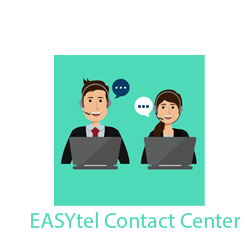
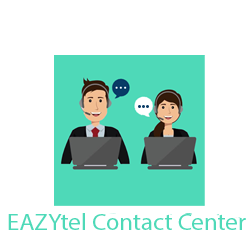
4th modification on Eazytel

Changed region(s): [[0.028, 0.84, 0.98, 0.924]]

diff --git a/index.html b/index.html
@@ -24,10 +24,36 @@
     <!--  <link href="css/style.min.css" rel="stylesheet" type="text/css" />-->
     <link href="css/style.css" rel="stylesheet" type="text/css" />
 
+    <link href="https://fonts.googleapis.com/css?family=Chewy|Modak|Schoolbell&display=swap" rel="stylesheet">
+
+
     <style>
         .text-muted {
             color: #083b66 !important;
+            font-size: 14px !important;
         }
+        .title {
+
+       font-weight: 900 !important;
+       font-family: 'Modak', cursive;
+            font-family: 'Chewy', cursive;
+            text-shadow: -1px -1px 0 #4ed9b8, 1px -1px 0 #4ed9b8, -1px 1px 0 #4ed9b8, 1px 1px 0 #4ed9b8;
+    
+        }
+
+        .styletext
+        {
+            font-family: 'Modak', cursive;
+            font-family: 'Chewy', cursive;
+            text-shadow: -4px -2px 0 #4ed9b8, 1px -1px 0 #4ed9b8, -1px 1px 0 #4ed9b8, 1px 1px 0 #4ed9b8;
+        }
+
+        .h4, h4
+        {
+            font-size: 3.5rem !important;
+        }
+
+
     </style>
 </head>
 
@@ -92,11 +118,11 @@
                         <div class="mb-4">
                             <i class="mdi mdi-google-circles-extended mdi-spin text-light h1"></i>
                         </div>
-                        <h1 class="hero-7-title" style="font-size: 37px;font-weight: 900">
+                        <h1 class="hero-7-title" style="font-size: 45px;font-weight: 900">
                             <span class="text-wrapper" style="text-align: center">
-                                <span class="letters text-light font-weight-normal">Considering Taking Your Customer Engagement to The Next </span>
+                                <span class="letters text-light font-weight-normal styletext">Considering Taking Your Customer Engagement to The Next </span>
 
-                            <span><p  style="text-align: center; color: #083b66">LEVEL?</p></span>
+                            <span><p class="styletext" style="text-align: center; color: #083b66 ">LEVEL?</p></span>
                             </span>
                         </h1>
                         <!-- <p class="text-light-70 mb-4 pb-2">Considering Taking Your Customer to The Next LEVEL?</p>-->
@@ -128,7 +154,7 @@
             <div class="row justify-content-center">
                 <div class="col-lg-6 col-md-8">
                     <div class="text-center mb-5">
-                        <h4 class="text-uppercase mb-0">Awesome Products</h4>
+                        <h4 class="text-uppercase mb-0 styletext" style="color: #083b66;">Awesome Products</h4>
                         <div class="my-3">
                             <img src="images/title-border.png" alt="" class="img-fluid mx-auto d-block">
                         </div>
@@ -149,7 +175,7 @@
                                 <div class="service-box service-box-1 p-4">
                                     <div class="service-icon icon-primary mb-4 mt-3">
                                         <i class="mdi mdi-mixcloud"></i>
-                                        <img src="images/service1.png" alt="CloudPBX" />
+                                        <img src="images/service1.png" style="height: 200px;" alt="CloudPBX" />
                                     </div>
 
                                     <!-- <h4 class="mb-3 service-title">Creative Design</h4>
@@ -160,7 +186,7 @@
                                 <div class="service-box service-box-1 p-4">
                                     <div class="service-icon icon-danger mb-4 mt-3">
                                         <i class="mdi mdi-message-video"></i>
-                                        <img src="images/service-2.png" alt="Video Conferencing" />
+                                        <img src="images/service-2.png" style="height: 200px;" alt="Video Conferencing" />
                                     </div>
                                     <!--<h4 class="mb-3 service-title">Analytics Security</h4>
                                 <p class="text-muted f-15">Itaque earum rerum hic at tenetur that sapiente delectus ut aut reiciendis voluptatibus alias.</p>-->
@@ -172,7 +198,7 @@
                                 <div class="service-box service-box-1 p-4 mt-md-5">
                                     <div class="service-icon icon-success mb-4 mt-3">
                                         <i class="mdi mdi-face-agent"></i>
-                                        <img src="images/service-3.png" alt="Cstomer service" />
+                                        <img src="images/service-3.png" style="height: 200px;" alt="Cstomer service" />
                                     </div>
                                     <!--<h4 class="mb-3 service-title">Data Privacy</h4>
                                 <p class="text-muted f-15">Itaque earum rerum hic at tenetur that sapiente delectus ut aut reiciendis voluptatibus alias.</p>-->
@@ -182,7 +208,7 @@
                                 <div class="service-box service-box-1 p-4">
                                     <div class="service-icon icon-info mb-4 mt-3">
                                         <i class="mdi mdi-phone-in-talk"></i>
-                                        <img src="images/service-4.png " alt="Telephony" />
+                                        <img src="images/service-4.png " style="height: 200px;" alt="Telephony" />
                                     </div>
                                     <!-- <h4 class="mb-3 service-title">User Friendly</h4>
                                 <p class="text-muted f-15">Itaque earum rerum hic at tenetur that sapiente delectus ut aut reiciendis voluptatibus alias.</p>-->
@@ -202,7 +228,7 @@
             <div class="row justify-content-center">
                 <div class="col-lg-6 col-md-8">
                     <div class="text-center mb-5">
-                        <h4 class="text-muted mb-0">What is EAZYtel and The Benefits?</h4>
+                        <h4 class="text-muted mb-0 styletext" style=" font-size: 3.5rem !important;">What is EAZYtel and The Benefits?</h4>
                         <div class="my-3">
                             <img src="images/title-border.png" alt="" class="img-fluid mx-auto d-block">
                         </div>
@@ -215,47 +241,86 @@
                 <div class="col-lg-6">
                     <div class="feature-box about-info-box mb-4 ml-lg-5  p-3">
                         <div class="media align-items-center">
-                            <img src="images/users/5.jpg" class="mr-3 rounded-circle" alt="" height="60">
+                            <i class=" mdi mdi-face-agent display-4  mr-3 rounded-circle" alt="ehance customer icon" ></i>
+                            <!-- <i class="pe-7s-plane display-4 text-primary mb-4"></i> -->
                             <div class="media-body">
-                                <h5 class="mb-2 title">Marie Hansen</h5>
-                                <p class="text-muted line-height-1_6 mb-0 f-15">Itaque earum rerum hic tenetur a sapiente delectus.</p>
+                                <h5 class="mb-2 title" >Enhance customer service management</h5>
+                                <p class="text-muted line-height-1_6 mb-0 f-15">When customers make you a call, they expect that you handle them quickly, efficiently and in a professional manner.
+                                    <br/>
+                                    This is where you can tap into the useful resources of call center softwares like <strong>EAZYtel.</strong>  <br/> <strong>EAZYtel</strong> software also enables the agents to access, collect and exchange information instantaneously in order<br/>
+                                     to provide a <strong>smooth transition among agents</strong>,<strong> thus dropping client wait times.</strong>
+                                </p>
                             </div>
                         </div>
                     </div>
 
                     <div class="feature-box about-info-box mb-4 p-3">
                         <div class="media align-items-center">
-                            <img src="images/users/5.jpg" class="mr-3 rounded-circle" alt="" height="60">
+                            <i class=" mdi mdi-file-chart display-4  mr-3 rounded-circle" alt="ehance customer icon" ></i>
                             <div class="media-body">
-                                <h5 class="mb-2 title">Marie Hansen</h5>
-                                <p class="text-muted line-height-1_6 mb-0 f-15">Itaque earum rerum hic tenetur a sapiente delectus.</p>
+                                <h5 class="mb-2 title">Improved Reporting Features</h5>
+                                <p class="text-muted line-height-1_6 mb-0 f-15">This amazing software provides business managers with all the necessary details they require for creating strategic plans and making important decisions.
+                                     <br/>
+                                      Some of the reporting features that <strong>EAZYtel</strong> software assists the management with include 
+                                      <ul class="text-muted" >
+                                          <li style="font-weight: bold;">
+                                            Upsell rates.
+                                          </li>
+                                          <li style="font-weight: bold;">
+                                            Revenue per call.
+                                          </li>
+                                          <li style="font-weight: bold;">
+                                            Case times.
+                                          </li>
+                                          <li style="font-weight: bold;">
+                                            Case categories.
+                                          </li>
+                                          <li style="font-weight: bold;">
+                                            Ability to evaluate call volume.
+                                          </li>
+
+
+                                      </ul>
+                                     
+
+                                </p>
                             </div>
                         </div>
                     </div>
                     <div class="feature-box about-info-box ml-lg-5  mb-4 p-3">
                         <div class="media align-items-center">
-                            <img src="images/users/5.jpg" class="mr-3 rounded-circle" alt="" height="60">
+                            <i class=" mdi mdi-progress-wrench display-4  mr-3 rounded-circle" alt="ehance customer icon" ></i>
                             <div class="media-body">
-                                <h5 class="mb-2 title">Marie Hansen</h5>
-                                <p class="text-muted line-height-1_6 mb-0 f-15">Itaque earum rerum hic tenetur a sapiente delectus.</p>
+                                <h5 class="mb-2 title">Enhance Productivity and Efficiency</h5>
+                                <p class="text-muted line-height-1_6 mb-0 f-15"><strong>EAZYtel</strong> software system helps boost overall productivity and enables telephone calls to be handled in an efficient manner.
+                                <br/>
+                                When agents use the software, they are able to handle all inbound and outbound calls quickly and conveniently. 
+                                <br/>
+                                They are also able to track the calls easily and speed them up when needed.
+                                </p>
                             </div>
                         </div>
                     </div>
                     <div class="feature-box about-info-box mb-4 p-3">
                         <div class="media align-items-center">
-                            <img src="images/users/5.jpg" class="mr-3 rounded-circle" alt="" height="60">
+                            <i class=" mdi mdi-database-import display-4  mr-3 rounded-circle" alt="ehance customer icon" ></i>
                             <div class="media-body">
-                                <h5 class="mb-2 title">Marie Hansen</h5>
-                                <p class="text-muted line-height-1_6 mb-0 f-15">Itaque earum rerum hic tenetur a sapiente delectus.</p>
+                                <h5 class="mb-2 title">Enhanced Data Access</h5>
+                                <p class="text-muted line-height-1_6 mb-0 f-15">With <strong>EAZYtel</strong>, agents have better access to a client’s data. Call center software organizes clients’ data centrally, 
+                                    having information about everything ranging from personal info to the clients’ purchase and service history. This allows agents to interact with clients in a more timely, 
+                                    comprehensive and customized manner.</p>
                             </div>
                         </div>
                     </div>
                     <div class="feature-box about-info-box mb-4 ml-lg-5  p-3">
                         <div class="media align-items-center">
-                            <img src="images/users/5.jpg" class="mr-3 rounded-circle" alt="" height="60">
+                            <i class=" mdi mdi-share-variant display-4  mr-3 rounded-circle" alt="ehance customer icon" ></i>
                             <div class="media-body">
-                                <h5 class="mb-2 title">Marie Hansen</h5>
-                                <p class="text-muted line-height-1_6 mb-0 f-15">Itaque earum rerum hic tenetur a sapiente delectus.</p>
+                                <h5 class="mb-2 title">Increased Communication and Responsibility</h5>
+                                <p class="text-muted line-height-1_6 mb-0 f-15">Since it is a centralized database, <strong>EAZYtel</strong> software allows employees across various departments to share and communicate correct information about clients through updates.
+                                <br/>
+                                Moreover, call center software also offers greater accountability – every employee clearly understands personal responsibilities in sales processes and customer service so he or she can be held answerable for both success and failure.
+                                </p>
                             </div>
                         </div>
                     </div>
@@ -264,39 +329,67 @@
                 <div class="col-lg-5 offset-lg-1 mt-5 mt-lg-0">
                     <div class="feature-box about-info-box mb-4 p-3">
                         <div class="media align-items-center">
-                            <img src="images/users/5.jpg" class="mr-3 rounded-circle" alt="" height="60">
+                            <i class=" mdi mdi-finance display-4  mr-3 rounded-circle" alt="ehance customer icon" ></i>
                             <div class="media-body">
-                                <h5 class="mb-2 title">Marie Hansen</h5>
-                                <p class="text-muted line-height-1_6 mb-0 f-15">Itaque earum rerum hic tenetur a sapiente delectus.</p>
+                                <h5 class="mb-2 title">Better Sales</h5>
+                                <p class="text-muted line-height-1_6 mb-0 f-15"><strong>EAZYtel</strong> Call center software has the power to drive sales instantly. This is indeed one of the greatest benefits of the software.
+                                <br/>
+                                Using this software, sales managers can effectively handle the pre-sales queries of existing clients. They can easily have access to 
+                                <ul class="text-muted" >
+                                    <li style="font-weight: bold;">
+                                        Transaction history.
+                                    </li>
+                                    <li style="font-weight: bold;">
+                                        Process orders.
+                                    </li>
+                                    <li style="font-weight: bold;">
+                                        Check warranties.
+                                    </li>
+                                    <li style="font-weight: bold;">
+                                        Issue credits.
+                                    </li>
+                                    <li style="font-weight: bold;">
+                                        Handle after-sales services efficiently.
+                                    </li>
+
+
+                                </ul>
+                                </p>
                             </div>
                         </div>
                     </div>
                     <div class="feature-box about-info-box mb-4 ml-lg-5 p-3">
                         <div class="media align-items-center">
-                            <img src="images/users/2.jpg" class="mr-3 rounded-circle" alt="" height="60">
+                            <i class=" mdi mdi-account-multiple-check display-4  mr-3 rounded-circle" alt="ehance customer icon" ></i>
                             <div class="media-body">
-                                <h5 class="mb-2 title">Marie Hansen</h5>
-                                <p class="text-muted line-height-1_6 mb-0 f-15">Itaque earum rerum hic tenetur delectus.</p>
+                                <h5 class="mb-2 title">Great Customer Experience</h5>
+                                <p class="text-muted line-height-1_6 mb-0 f-15">Customer experience is improved when call center agents deliver appropriate and accurate information with a customized touch.
+                                    <br/>
+                                   <strong> EAZYtel </strong> call center software streamlines data processing, thus it promotes increased customer retention and brand loyalty.
+                                    <br/>
+                                    The database is also ideal for recording, observing and evaluating customer feedback about products and services.
+                                </p>
                             </div>
 
                         </div>
                     </div>
                     <div class="feature-box about-info-box mb-4 p-3">
                         <div class="media align-items-center">
-                            <img src="images/users/3.jpg" class="mr-3 rounded-circle" alt="" height="60">
+                            <i class="mdi mdi-hand-okay display-4  mr-3 rounded-circle" alt="ehance customer icon" ></i>
                             <div class="media-body">
-                                <h5 class="mb-2 title">Marie Hansen</h5>
-                                <p class="text-muted line-height-1_6 mb-0 f-15">Itaque earum rerum hic tenetur a sapiente delectus.</p>
+                                <h5 class="mb-2 title">Ease-to-use</h5>
+                                <p class="text-muted line-height-1_6 mb-0 f-15">Since businesses are migrating to cloud storage nowadays, you can seek call center solutions that are based on the virtual storage system that you can easily set up and start operating for your business.</p>
                             </div>
 
                         </div>
                     </div>
                     <div class="feature-box about-info-box mb-4 ml-lg-5  p-3">
                         <div class="media align-items-center">
-                            <img src="images/users/3.jpg" class="mr-3 rounded-circle" alt="" height="60">
+                            <i class=" mdi mdi-priority-high display-4  mr-3 rounded-circle" alt="ehance customer icon" ></i>
                             <div class="media-body">
-                                <h5 class="mb-2 title">Marie Hansen</h5>
-                                <p class="text-muted line-height-1_6 mb-0 f-15">Itaque earum rerum hic tenetur a sapiente delectus.</p>
+                                <h5 class="mb-2 title">Prioritizes clients and identify urgent calls</h5>
+                                <p class="text-muted line-height-1_6 mb-0 f-15"><strong>EAZYtel</strong> software comes with call prioritizing feature that allows you to identify calls that require immediate attention. 
+                                    Call prioritizing allows you to place your clients in sequential order based on the importance of their queries or requirements. </p>
                             </div>
 
                         </div>
@@ -304,10 +397,16 @@
 
                     <div class="feature-box about-info-box mb-4 p-3">
                         <div class="media align-items-center">
-                            <img src="images/users/3.jpg" class="mr-3 rounded-circle" alt="" height="60">
+                            <i class=" mdi mdi-stack-exchange display-4  mr-3 rounded-circle" alt="ehance customer icon" ></i>
                             <div class="media-body">
-                                <h5 class="mb-2 title">Marie Hansen</h5>
-                                <p class="text-muted line-height-1_6 mb-0 f-15">Itaque earum rerum hic tenetur a sapiente delectus.</p>
+                                <h5 class="mb-2 title">Multi-channel support</h5>
+                                <p class="text-muted line-height-1_6 mb-0 f-15"> <!--  <strong>EAZYtel</strong> software helps you meet the objective of delivering support across multiple levels so that your call center executives can deliver seamless assistance to your customers, regardless of how your clients contact your customer support center
+                                
+                                    <br/>
+                                    -->
+                                <strong>EAZYtel</strong> software helps you to connect with your clients via SMS, email, chat, voice calls, video, messaging apps, as well as social media platforms such as Facebook, Twitter, Instagram, etc. enabling your clients to pick the channel that is more convenient to them. Multi-channel support goes a long way in reducing customers’ frustrations, besides enabling you to offer enhanced customer service.
+                                
+                                </p>
                             </div>
 
                         </div>
@@ -408,7 +507,7 @@
             <div class="row justify-content-center" id="counter">
                 <div class="col-lg-6 col-md-8">
                     <div class="text-center mb-5">
-                        <h4 class="text-uppercase mb-0" style="color: #fff;">Our Clients</h4>
+                        <h4 class="text-uppercase mb-0 styletext" style="color: #fff;">Our Clients</h4>
                         <div class="my-3">
                             <img src="images/title-border.png" alt="" class="img-fluid mx-auto d-block">
                         </div>
@@ -465,7 +564,7 @@
             <div class="row justify-content-center">
                 <div class="col-lg-6 col-md-8">
                     <div class="text-center mb-5">
-                        <h4 class="text-uppercase mb-0">Get In Touch</h4>
+                        <h4 class="text-uppercase mb-0 styletext">Get In Touch</h4>
                         <div class="my-3">
                             <img src="images/title-border.png" alt="" class="img-fluid mx-auto d-block">
                         </div>
@@ -490,7 +589,7 @@
                         <div class="col-md-6">
                             <div class="contact-address">
                                 <h5 class="title f-18">Email</h5>
-                                <p class="text-muted f-15"><a style="color: #083b66;" href="mailto:sales@Easy-tel.com">sales@Easy-tel.com</a> <br/>
+                                <p class="text-muted f-15"><a style="color: #083b66;" href="mailto:sales@Eazy-tel.com">sales@Eazy-tel.com</a> <br/>
                                     <a style="color: #083b66;" href="mailto:info@techmadeeazy.com">info@techmadeeazy.com</a> </p>
                             </div>
                         </div>
@@ -558,10 +657,10 @@
                     </div>
                     <p class="footer-desc f-15">Address : 13, Babatunde Dabiri Street, Lekki Phase 1, Lagos.</p>
                     <ul class="footer-icons list-inline f-20 mb-0 mt-4">
-                        <li class="list-inline-item mr-3"><a href="#" class=""><i class="mdi mdi-facebook"></i></a></li>
+                        <li class="list-inline-item mr-3"><a href="https://www.facebook.com/techmadeeazy/" class=""><i class="mdi mdi-facebook"></i></a></li>
                         <!--               <li class="list-inline-item mr-3"><a href="#" class=""><i class="mdi mdi-twitter"></i></a></li>-->
-                        <li class="list-inline-item mr-3"><a href="#" class=""><i class="mdi mdi-instagram"></i></a></li>
-                        <li class="list-inline-item"><a href="#" class=""><i class="mdi mdi-linkedin"></i></a></li>
+                        <li class="list-inline-item mr-3"><a href="https://www.instagram.com/techmadeeazy/" class=""><i class="mdi mdi-instagram"></i></a></li>
+                        <li class="list-inline-item"><a href="https://www.linkedin.com/company/techmadeeazy/about/" class=""><i class="mdi mdi-linkedin"></i></a></li>
                     </ul>
                 </div>
                 <div class="col-lg-7 offset-lg-1">

diff --git a/php/contact.php b/php/contact.php
@@ -39,7 +39,7 @@ if(get_magic_quotes_gpc()) {
 // Example $address = "joe.doe@yourdomain.com";
 
 //$address = "example@example.net";
-$address = "sales@Easy-tel.com";
+$address = "sales@Eazy-tel.com";
 
 
 // Configuration option.
@@ -47,7 +47,7 @@ $address = "sales@Easy-tel.com";
 
 // Example, $e_subject = '$name . ' has contacted you via Your Website.';
 
-$e_subject = 'From Easy-tel.com You have been contacted by ' . $name . '.';
+$e_subject = 'From Eazy-tel.com You have been contacted by ' . $name . '.';
 
 
 // Configuration option.
